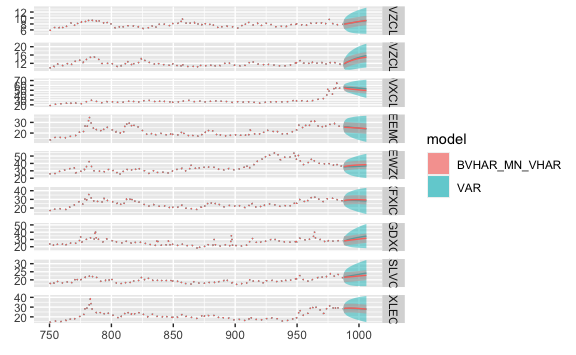
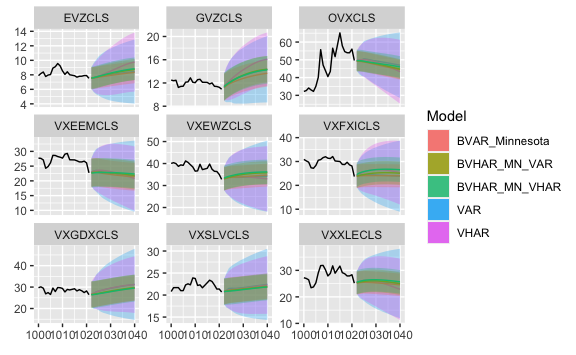
rendered readme and vignettes

diff --git a/README.md b/README.md
@@ -84,9 +84,9 @@ MSE:
 ``` r
 (msevar <- mse(forecast_var, etf_te))
 #>   EVZCLS   GVZCLS   OVXCLS VXEEMCLS VXEWZCLS VXFXICLS VXGDXCLS VXSLVCLS 
-#>     1.63     4.01    71.27     3.01     1.91     3.82     4.60    10.27 
+#>    0.675    1.817   42.797   14.652    4.376   14.686    9.149    4.947 
 #> VXXLECLS 
-#>    38.12
+#>   80.670
 ```
 
 ### VHAR
@@ -101,9 +101,9 @@ MSE:
 forecast_vhar <- predict(mod_vhar, h)
 (msevhar <- mse(forecast_vhar, etf_te))
 #>   EVZCLS   GVZCLS   OVXCLS VXEEMCLS VXEWZCLS VXFXICLS VXGDXCLS VXSLVCLS 
-#>     2.57     6.39    70.83     4.32     3.09     5.34     4.38     7.64 
+#>     2.34     4.69    57.58    14.73     6.07     5.45     8.94     4.36 
 #> VXXLECLS 
-#>    52.14
+#>    95.97
 ```
 
 ### BVAR
@@ -125,9 +125,9 @@ eps <- 1e-04
 #> 
 #> Setting for 'sigma':
 #>   EVZCLS    GVZCLS    OVXCLS  VXEEMCLS  VXEWZCLS  VXFXICLS  VXGDXCLS  VXSLVCLS  
-#>     2.19      3.26     11.08      5.10      7.81      6.82     11.05      4.94  
+#>     2.20      3.26     11.15      5.12      7.81      6.85     11.04      4.94  
 #> VXXLECLS  
-#>     6.23  
+#>     6.25  
 #> 
 #> Setting for 'lambda':
 #> [1]  0.3
@@ -149,14 +149,14 @@ MSE:
 forecast_bvar <- predict(mod_bvar, h)
 (msebvar <- mse(forecast_bvar, etf_te))
 #>   EVZCLS   GVZCLS   OVXCLS VXEEMCLS VXEWZCLS VXFXICLS VXGDXCLS VXSLVCLS 
-#>     1.36     2.45    59.34     4.23     2.37     3.05     5.75     8.15 
+#>    0.534    1.337   50.211   17.453    3.441   15.745   16.552    4.098 
 #> VXXLECLS 
-#>    42.36
+#>   88.957
 ```
 
 ### BVHAR
 
-Minnesota-v1:
+VAR-type Minnesota prior:
 
 ``` r
 (bvhar_spec_v1 <- set_bvhar(sig, lam, delta, eps))
@@ -169,9 +169,9 @@ Minnesota-v1:
 #> 
 #> Setting for 'sigma':
 #>   EVZCLS    GVZCLS    OVXCLS  VXEEMCLS  VXEWZCLS  VXFXICLS  VXGDXCLS  VXSLVCLS  
-#>     2.19      3.26     11.08      5.10      7.81      6.82     11.05      4.94  
+#>     2.20      3.26     11.15      5.12      7.81      6.85     11.04      4.94  
 #> VXXLECLS  
-#>     6.23  
+#>     6.25  
 #> 
 #> Setting for 'lambda':
 #> [1]  0.3
@@ -193,12 +193,12 @@ MSE:
 forecast_bvhar_v1 <- predict(mod_bvhar_v1, h)
 (msebvhar_v1 <- mse(forecast_bvhar_v1, etf_te))
 #>   EVZCLS   GVZCLS   OVXCLS VXEEMCLS VXEWZCLS VXFXICLS VXGDXCLS VXSLVCLS 
-#>     1.73     3.24    60.58     3.40     3.78     3.66     6.01     6.89 
+#>    0.952    1.937   47.983   14.109    1.775    9.288   15.379    3.836 
 #> VXXLECLS 
-#>    39.26
+#>   79.779
 ```
 
-Minnesota-v2:
+VHAR-type Minnesota prior:
 
 ``` r
 day <- rep(.1, ncol(etf_vix))
@@ -215,9 +215,9 @@ month <- rep(.1, ncol(etf_vix))
 #> 
 #> Setting for 'sigma':
 #>   EVZCLS    GVZCLS    OVXCLS  VXEEMCLS  VXEWZCLS  VXFXICLS  VXGDXCLS  VXSLVCLS  
-#>     2.19      3.26     11.08      5.10      7.81      6.82     11.05      4.94  
+#>     2.20      3.26     11.15      5.12      7.81      6.85     11.04      4.94  
 #> VXXLECLS  
-#>     6.23  
+#>     6.25  
 #> 
 #> Setting for 'lambda':
 #> [1]  0.3
@@ -243,9 +243,9 @@ mod_bvhar_v2 <- bvhar_minnesota(etf_tr, bvhar_spec_v2)
 forecast_bvhar_v2 <- predict(mod_bvhar_v2, h)
 (msebvhar_v2 <- mse(forecast_bvhar_v2, etf_te))
 #>   EVZCLS   GVZCLS   OVXCLS VXEEMCLS VXEWZCLS VXFXICLS VXGDXCLS VXSLVCLS 
-#>     1.74     2.97    49.28     3.00     5.78     5.86     6.98     6.41 
+#>     1.11     1.83    42.50    12.94     1.56     3.54    17.02     3.55 
 #> VXXLECLS 
-#>    36.94
+#>    71.88
 ```
 
 ## Compare Models
@@ -253,8 +253,11 @@ forecast_bvhar_v2 <- predict(mod_bvhar_v2, h)
 ### Layers
 
 ``` r
-autoplot(forecast_var, x_cut = 750, ci_alpha = .5) +
-  autolayer(forecast_bvhar_v2, ci_alpha = .3)
+autoplot(forecast_var, x_cut = 1000, ci_alpha = .7, type = "wrap") +
+  autolayer(forecast_vhar, ci_alpha = .6) +
+  autolayer(forecast_bvar, ci_alpha = .4) +
+  autolayer(forecast_bvhar_v1, ci_alpha = .2) +
+  autolayer(forecast_bvhar_v2, ci_alpha = .1)
 ```
 
 <img src="man/figures/README-unnamed-chunk-18-1.png" width="70%" style="display: block; margin: auto;" />
@@ -269,27 +272,11 @@ list(
   forecast_bvhar_v2
 ) %>% 
   plot_loss(y = etf_te) +
+  ggplot2::theme_minimal() +
   ggplot2::theme(axis.text.x = ggplot2::element_text(angle = -45, vjust = -1))
 ```
 
 <img src="man/figures/README-msefig-1.png" width="70%" style="display: block; margin: auto;" />
-
-``` r
-# VAR---------------
-mean(msevar)
-#> [1] 15.4
-# VHAR--------------
-mean(msevhar)
-#> [1] 17.4
-# BVAR--------------
-mean(msebvar)
-#> [1] 14.3
-# BVHAR-------------
-mean(msebvhar_v1)
-#> [1] 14.3
-mean(msebvhar_v2)
-#> [1] 13.2
-```
 
 ## Code of Conduct
 
